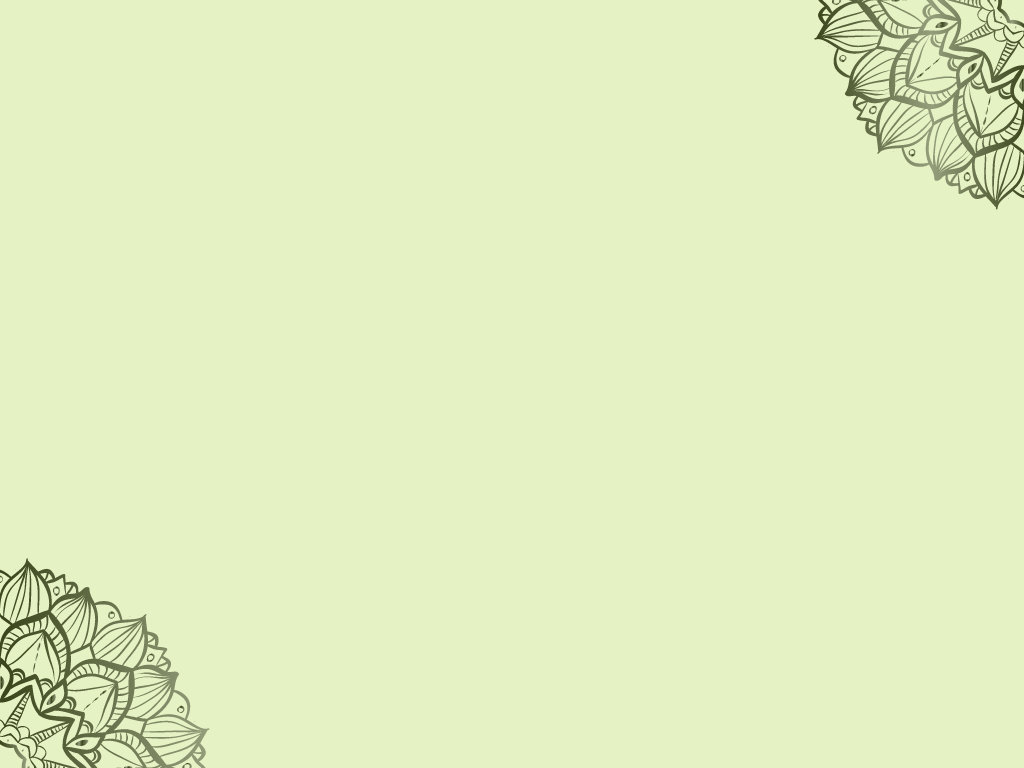
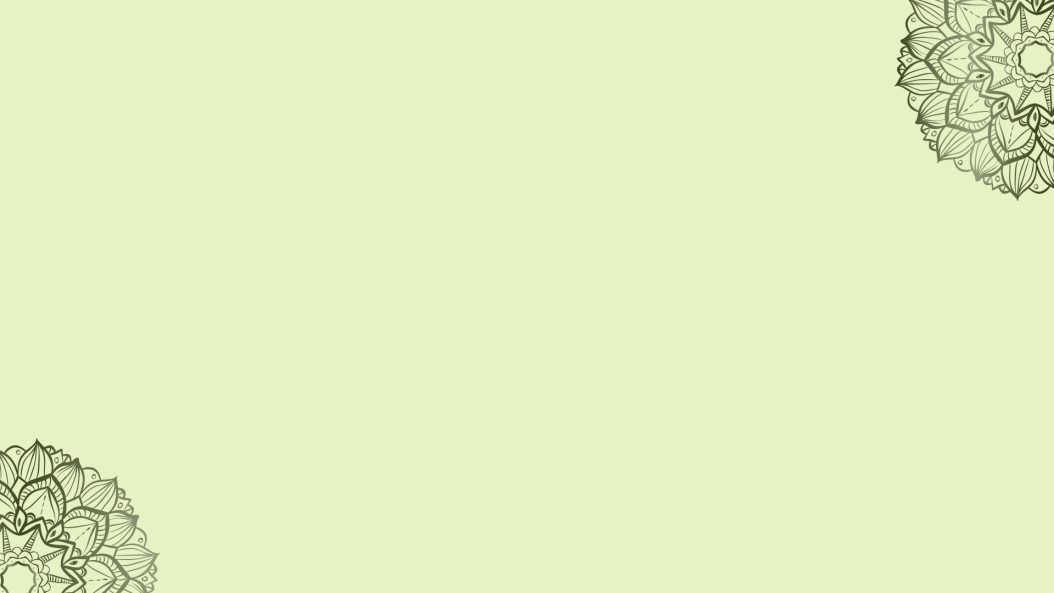
feat : add style to todo page

Changed region(s): [[0.7812, 0.0, 1.0, 0.3339], [0.0, 0.7285, 0.2188, 1.0]]

diff --git a/app/todo/page.js b/app/todo/page.js
@@ -10,6 +10,8 @@ import style from "../styles/todo.module.css"
 import image from "public/assets/image.png";
 import todo from "public/assets/todo.png";
 import { Icon } from '@iconify/react';
+import home_img from 'public/assets/back2.png';
+
 
 
 export default function Todo() {
@@ -127,7 +129,9 @@ export default function Todo() {
   }
 
   return (
-    <section className={style.back}>
+    <section className={style.div1}>
+            <Image src={home_img} alt="Picture of the author" className={style.image} />
+
       {/* <div className={style.wp_caption} >
         <Image
           src={image}

diff --git a/app/styles/todo.module.css b/app/styles/todo.module.css
@@ -46,3 +46,14 @@
         /* Center and scale the image nicely */
 
 }
+.image {
+    position: absolute;
+    z-index: -1;
+    width: 100%;
+    height: 100%;
+  }
+  .div1{
+    position : relative;
+    min-height: 100vh;
+    
+  }
